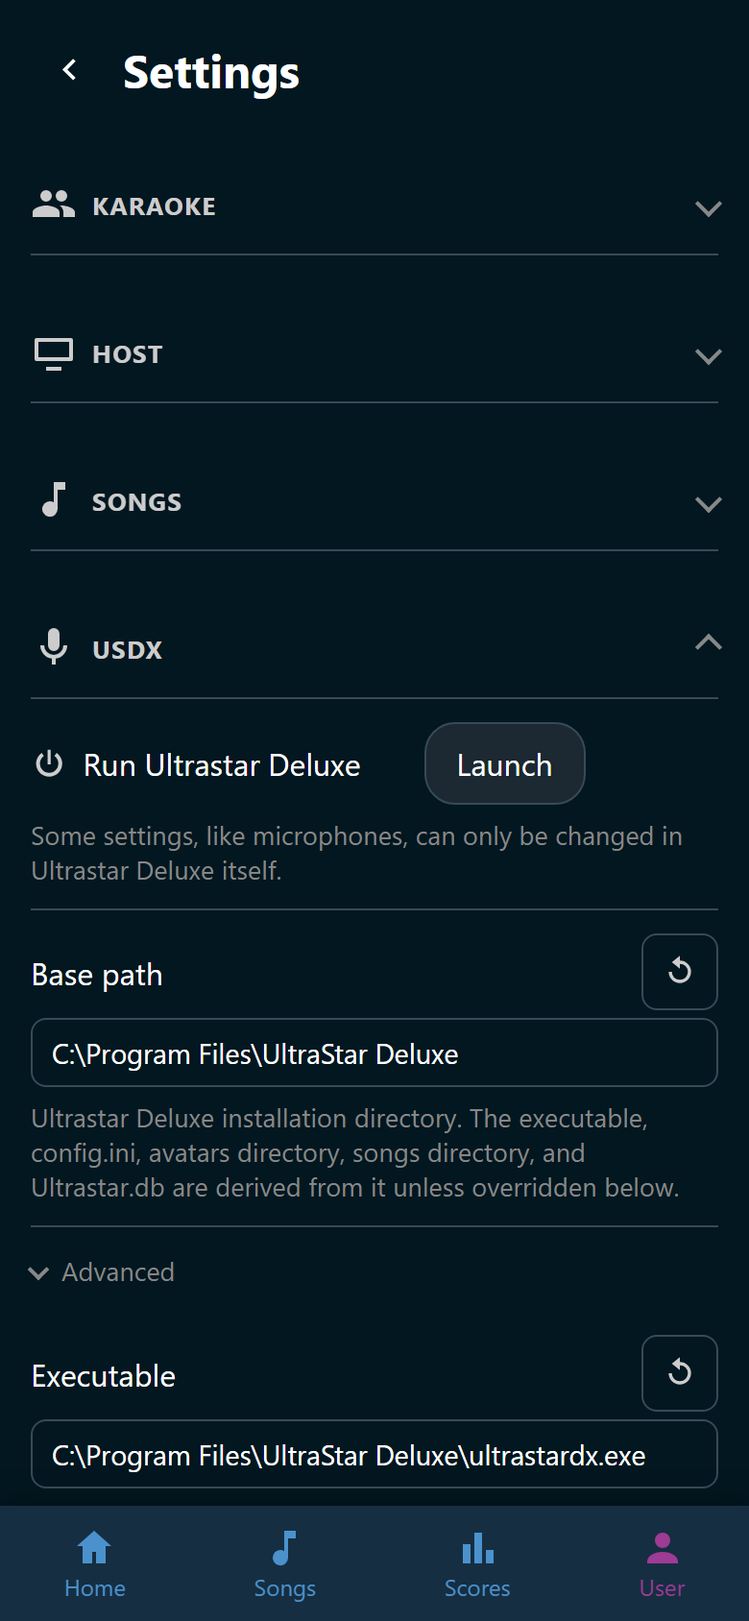
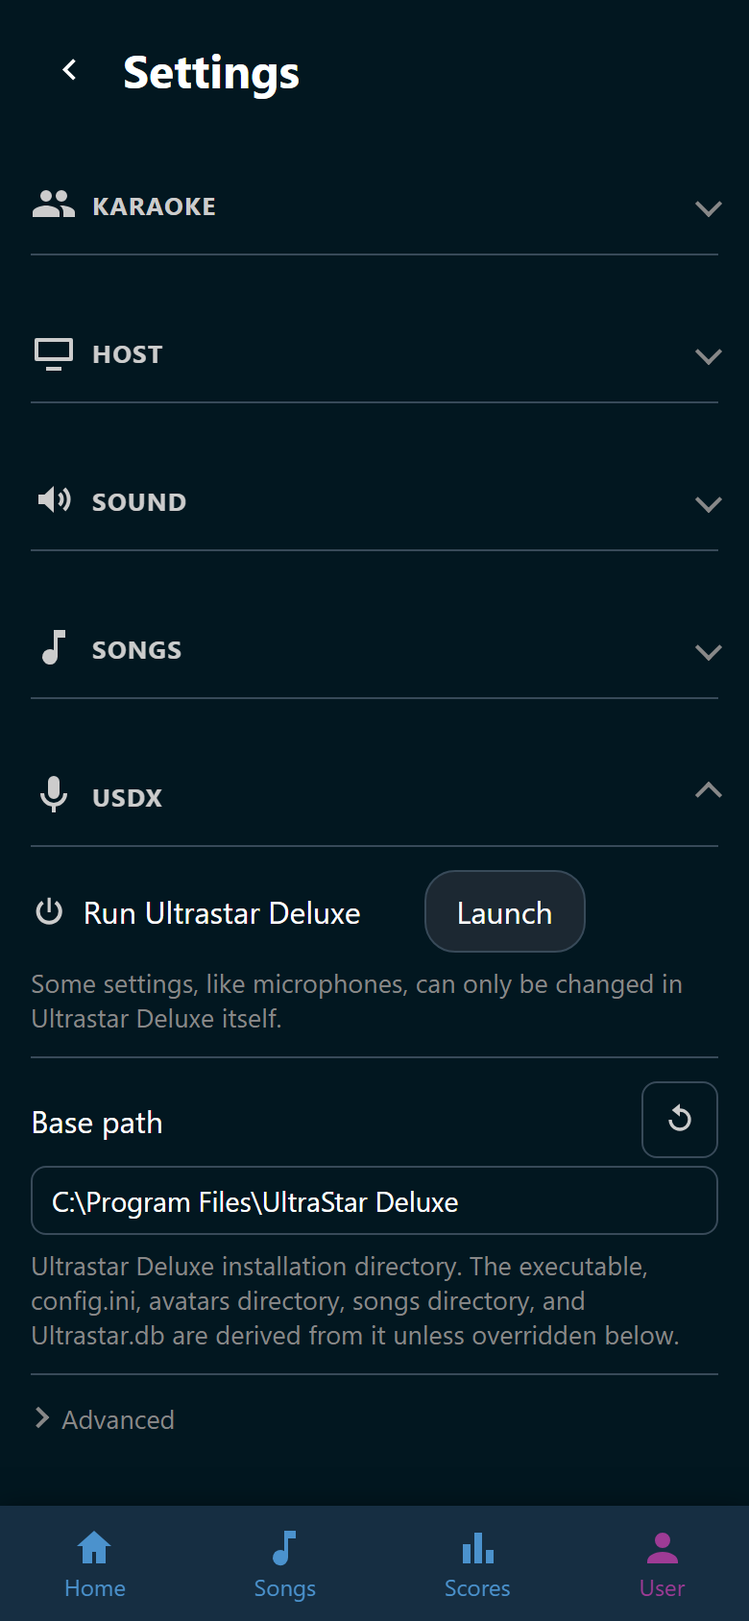
docs: tighten the help and install pages, correct the chip-row arithmetic and the codebase map's errors.ts entry, and retake the Filter and Settings screenshots with every chip look and the Sound group

diff --git a/frontend/src/pages/Songs.css b/frontend/src/pages/Songs.css
@@ -108,13 +108,15 @@
    several times the 328px a 360px phone has between its gutters.
 
    Measured at 360: `All` 46px, an unpressed glyph square 40px, the playlists
-   link 42px, gaps 8px; a pressed chip is icon + gap + label, 101px for
-   `Filter · 3` and 107px for `Favorites`. So four chips and the link fit on one
-   line whatever is pressed (251 + 8 + 42 = 301), and the fifth chip — `Recent`,
-   which is only there while a party is running — is what tips a pressed label
-   over: 299 + 8 + 42 = 349. Then the group wraps its own chips onto a second
-   line and the link stays anchored top right. Wrapping, never sideways scroll
-   (§1.11); `overflow-x` stays only as a backstop for a chip wider than the row.
+   link 40px (the square of its own rule below), gaps 8px; a pressed chip is
+   icon + gap + label, 101px for `Filter · 3` and 107px for `Favorites`. So four
+   chips and the link fit on one line whatever is pressed (`Favorites`, the
+   widest: 257 + 8 + 40 = 305), and the fifth chip — `Recent`, which is only
+   there while a party is running — is what tips a pressed label over, even the
+   narrower `Filter · 3`: 299 + 8 + 40 = 347. Then the group wraps its own
+   chips onto a second line and the link stays anchored top right. Wrapping,
+   never sideways scroll (§1.11); `overflow-x` stays only as a backstop for a
+   chip wider than the row.
    At 390 even the five-chip row fits on one line. */
 .songs-chips {
   display: flex;

diff --git a/docs/screenshots/capture.py b/docs/screenshots/capture.py
@@ -502,13 +502,24 @@ ROWS: dict[str, Row] = {
             # The chip itself, not the group around it: the row of chips carries the same
             # accessible name, and clicking a `<div role="group">` does nothing at all.
             ("click(q('button[aria-label=\"Filter\"]'))", 'q(".filter-panel")'),
+            # One tap puts Video on Yes, so the picture holds all three looks of the table
+            # in filter.md: plain chips on Any, Video and the Decade value filled in blue,
+            # and the two tags that hide their songs struck through on No. Video and not a
+            # tag: twelve of the eighteen 80s songs have one, so the list behind the panel
+            # stays full.
+            (
+                "click(byText('.filter-panel button.chip', 'Video'))",
+                "byText('.filter-panel button.chip', 'Video').classList.contains('chip-on')",
+            ),
             (
                 'setValue(q(\'.filter-panel select[aria-label="Decade"]\'), "1980s")',
                 'q(\'.filter-panel select[aria-label="Decade"]\').value === "1980s"',
             ),
         ),
         ready='qa(".filter-panel .filter-cloud").length === 2'
-        ' && q(\'.filter-panel select[aria-label="Decade"]\').value === "1980s"',
+        " && byText('.filter-panel button.chip', 'Video').classList.contains('chip-on')"
+        ' && q(\'.filter-panel select[aria-label="Decade"]\').value === "1980s"'
+        ' && q(".filter-panel .filter-chip-no")',
     ),
     "song": Row(
         identity="Leela",
@@ -806,14 +817,16 @@ ROWS: dict[str, Row] = {
             (
                 # Every group is open to begin with, which puts USDX several screens down. The
                 # others are folded away rather than scrolled past, so the group the picture is
-                # about starts at the top with its own header in the shot.
+                # about starts at the top with its own header in the shot. Its Advanced line
+                # stays folded, the way the page explains it: with the Sound group above, the
+                # Executable row behind it lands under the bottom nav.
                 '(() => { qa(".settings-group").forEach((group) => {'
                 ' group.open = text(group.querySelector(".settings-group-name")) === "USDX"; });'
-                ' q(".settings-group[open] .settings-advanced").open = true; return true; })()',
-                'q(".settings-group[open] .settings-advanced[open]")',
+                " return true; })()",
+                'q(".settings-group[open] .settings-advanced:not([open])")',
             ),
         ),
-        ready='q(".settings-group[open] .settings-advanced[open]")'
+        ready='q(".settings-group[open] .settings-advanced:not([open])")'
         ' && byText(".settings-group-name", "USDX")',
         # An ordinary Windows installation for the length of the shot. The stand-in
         # launcher lives in the scratch directory, whose path names the person who ran the

diff --git a/CLAUDE.md b/CLAUDE.md
@@ -112,7 +112,7 @@ live in `tests/fixtures/`.
 | `api/` | **generated** by `@hey-api/openapi-ts` (fetch client + TanStack Query options). Never edit; regenerate and commit |
 | `auth.ts` | `useAuth()` → `{ user, role, capabilities, isHost, loaded, can(capability) }` |
 | `index.css` | design tokens — `--bottom-nav-height` among them, the one term the fixed nav is that tall by, `#root` reserves at the foot of every page and `EditorActions` sticks at — and the shared classes (`.button*`, `.text-input[-quiet]`, `.icon-button*`, `.error-notice`, `.section-note`, `.delete-row` (the centered danger button that ends a list or a form), `.chip[-on]` + `.chip-name` (the 40px box of the Songs chip row and the Filter panel's chips, its hover fill for pointers alone and its ring through `:has(:focus-visible)` for the facet chip's invisible select), `.range-input` (the one slider in the app: the player's music volume and the four **Sound** volumes, painted by `accent-color` alone so there is no per-browser pseudo-element stack), `.visually-hidden`, global focus ring) |
-| `stats.ts` (`scoreSummary` is what `ScoreSummary` prints — distinct sings, distinct songs, the peaks with the name of whoever holds them, a tie going to whoever got there first — and `CHART_MIN_SCORES` the threshold every summary's chart waits for; `scoreOffset` and `scoreMarkers` are the host result screen's marker strip — which of the three all-time marks survive a minimum gap the caller measures in em against the strip, the average yielding first and all three collapsing into one average mark), `chartLayout.ts` (the geometry behind the SVG charts: the shared 0–10k ticks, the beeswarm stagger that keeps near-ties apart, wall-clock ticks, deterministic dot jitter), `karaokeSlots.ts`, `playerSlots.ts` (the phone's memory of who stood on which slot: `readAssignment` / `writeAssignment` in `localStorage`, `rememberedAssignment` dropping unknown colors, deleted and hidden players, and `slotBody` — what every modal that opens the room's selection seeds it with; the player selection writes it on Play, the host spin only reads it), `settings.ts`, `duration.ts`, `errors.ts` (with `BUNDLED_USDX_NOTE`, the one sentence every surface says for the **bundled** mode, and `explainUsdxProblem`, which also words the bundled-only *the bundled Ultrastar Deluxe is missing*), `manage.ts`, `devices.ts` (the player selector's vocabulary: the `slot:<color>` roles and the button actions, `START_WITHOUT_SELECTION` and `RANDOM_SCOPES` — the backend's tuple with its labels, every song first — `isNewer` / `needsUpdate` over the bundled manifest, the meta, status, firmware, update and signal lines, `otaAvailable` (an update over Wi-Fi wants a build carrying an `ota_file`, a device that has reported what it runs — one that never has takes the cable — and a version that *differs* — `devices/service.py`'s own rule, not `isNewer`'s, so a device ahead of the bundle can be put back on it) with `updateRefusal` for its three 409s, and `mappingRefusal` turning a 422 slug into the sentence naming the reader it does not name — `slot_taken_elsewhere` among them, the one refusal whose `detail` is an object rather than a slug, read here because `errorDetail` is string-only by contract and said with the color and the other device's name), `deviceSerial.ts` (the browser half of the serial console: the framer that turns chunks into lines and keeps the tail, `parseLine` (JSON with a known `type`, anything else — boot-loader noise, a message this frontend has no screen for — being `null`), `buildCommand` (`JSON.stringify`, so a password may hold a quote), the sentence one `status` or `error` line reads as, and `HelloHandshake`, whose clock is passed in so its ten seconds are tested without a timer), `deviceSetup.ts` (what the wizard works out on its own: `discoveredOrder` and `pressedOrder` over two reports, the roles and actions they propose — one reader is *Everybody in turn*, several take the host's slots in the order the cards landed — the localhost address to open the flash step at, and `serverAddress`, which is the join URL's origin unless that is localhost, with `serverAddressProblem` refusing a typed one the device cannot reach before Send mints a token), `music.ts` (the player's branching, tested without rendering it: `playerMode` (a sing always outranks the music), `musicPosition` (advanced only while the music plays *and* a screen is listening, clamped at both ends), `progressPercent`, `effectiveVolume` (master × trim, a plain product — any gamma makes one of the two printed numbers a lie), `seekIfDrifted` and `MUSIC_SCOPES`), `songSources.ts`, `links.ts`, `backLink.ts`, `dice.ts`, `avatars.ts` (a player's picture: the cache-busted URL, and `asPlayer` for the people who are not player rows — a comment's author, a playlist's members), `tags.ts` (a tag's glyph and colour class, the row marks; the eight built-ins — their fixed glyph/name/`kind`, `KIND_OPTIONS` mirroring the backend, and `builtInTags` normalising the `built_ins` rows so no option is ever null; one extractor per facet over `SongRead` plus `decadeLabel` and `facetValues`; and the criteria the song list filters on — `SongCriteria` (marks, `booleans`, `values`, tags), the reader's `CriteriaOverrides` and `effectiveCriteria`, which drops a facet whose `show_in_filter` is off), `achievements.ts` (a badge's icon URL at the row's own `icon_version`, glyph and colour class — the tags' four, not a second vocabulary; `isMasked` and the stand-in name and sentence of a masked row; `MANAGE_CATALOGUE`, the `?manage=true` the two management pages — and nothing else — ask the catalogue with, its own cache entry beside the masked one everybody reads; the progress fraction and its `"7 / 10"`; and the editor's vocabulary declared once — metrics, comparators, scopes, the selector's fields, operators and kinds, `conditionTarget` mirroring the backend's progress rule, `songMode` reading the three song modes off `songs`/`match`, `conditionProblem` making the models' refusals sayable before Save, and `conditionSentence` turning one condition into the plain sentence its editor block is headed by; and `importSummary`, which turns an import's two lists of ids into the sentence the admin page answers with) | plain helpers, each with its own test |
+| `stats.ts` (`scoreSummary` is what `ScoreSummary` prints — distinct sings, distinct songs, the peaks with the name of whoever holds them, a tie going to whoever got there first — and `CHART_MIN_SCORES` the threshold every summary's chart waits for; `scoreOffset` and `scoreMarkers` are the host result screen's marker strip — which of the three all-time marks survive a minimum gap the caller measures in em against the strip, the average yielding first and all three collapsing into one average mark), `chartLayout.ts` (the geometry behind the SVG charts: the shared 0–10k ticks, the beeswarm stagger that keeps near-ties apart, wall-clock ticks, deterministic dot jitter), `karaokeSlots.ts`, `playerSlots.ts` (the phone's memory of who stood on which slot: `readAssignment` / `writeAssignment` in `localStorage`, `rememberedAssignment` dropping unknown colors, deleted and hidden players, and `slotBody` — what every modal that opens the room's selection seeds it with; the player selection writes it on Play, the host spin only reads it), `settings.ts`, `duration.ts`, `errors.ts` (with `BUNDLED_USDX_NOTE`, the one sentence every surface says for the **bundled** mode, and `explainUsdxProblem`, which also words the three bundled-only problems — *the bundled Ultrastar Deluxe is missing*, a folder that is not plain ASCII, a `songs` folder that cannot be written to), `manage.ts`, `devices.ts` (the player selector's vocabulary: the `slot:<color>` roles and the button actions, `START_WITHOUT_SELECTION` and `RANDOM_SCOPES` — the backend's tuple with its labels, every song first — `isNewer` / `needsUpdate` over the bundled manifest, the meta, status, firmware, update and signal lines, `otaAvailable` (an update over Wi-Fi wants a build carrying an `ota_file`, a device that has reported what it runs — one that never has takes the cable — and a version that *differs* — `devices/service.py`'s own rule, not `isNewer`'s, so a device ahead of the bundle can be put back on it) with `updateRefusal` for its three 409s, and `mappingRefusal` turning a 422 slug into the sentence naming the reader it does not name — `slot_taken_elsewhere` among them, the one refusal whose `detail` is an object rather than a slug, read here because `errorDetail` is string-only by contract and said with the color and the other device's name), `deviceSerial.ts` (the browser half of the serial console: the framer that turns chunks into lines and keeps the tail, `parseLine` (JSON with a known `type`, anything else — boot-loader noise, a message this frontend has no screen for — being `null`), `buildCommand` (`JSON.stringify`, so a password may hold a quote), the sentence one `status` or `error` line reads as, and `HelloHandshake`, whose clock is passed in so its ten seconds are tested without a timer), `deviceSetup.ts` (what the wizard works out on its own: `discoveredOrder` and `pressedOrder` over two reports, the roles and actions they propose — one reader is *Everybody in turn*, several take the host's slots in the order the cards landed — the localhost address to open the flash step at, and `serverAddress`, which is the join URL's origin unless that is localhost, with `serverAddressProblem` refusing a typed one the device cannot reach before Send mints a token), `music.ts` (the player's branching, tested without rendering it: `playerMode` (a sing always outranks the music), `musicPosition` (advanced only while the music plays *and* a screen is listening, clamped at both ends), `progressPercent`, `effectiveVolume` (master × trim, a plain product — any gamma makes one of the two printed numbers a lie), `seekIfDrifted` and `MUSIC_SCOPES`), `songSources.ts`, `links.ts`, `backLink.ts`, `dice.ts`, `avatars.ts` (a player's picture: the cache-busted URL, and `asPlayer` for the people who are not player rows — a comment's author, a playlist's members), `tags.ts` (a tag's glyph and colour class, the row marks; the eight built-ins — their fixed glyph/name/`kind`, `KIND_OPTIONS` mirroring the backend, and `builtInTags` normalising the `built_ins` rows so no option is ever null; one extractor per facet over `SongRead` plus `decadeLabel` and `facetValues`; and the criteria the song list filters on — `SongCriteria` (marks, `booleans`, `values`, tags), the reader's `CriteriaOverrides` and `effectiveCriteria`, which drops a facet whose `show_in_filter` is off), `achievements.ts` (a badge's icon URL at the row's own `icon_version`, glyph and colour class — the tags' four, not a second vocabulary; `isMasked` and the stand-in name and sentence of a masked row; `MANAGE_CATALOGUE`, the `?manage=true` the two management pages — and nothing else — ask the catalogue with, its own cache entry beside the masked one everybody reads; the progress fraction and its `"7 / 10"`; and the editor's vocabulary declared once — metrics, comparators, scopes, the selector's fields, operators and kinds, `conditionTarget` mirroring the backend's progress rule, `songMode` reading the three song modes off `songs`/`match`, `conditionProblem` making the models' refusals sayable before Save, and `conditionSentence` turning one condition into the plain sentence its editor block is headed by; and `importSummary`, which turns an import's two lists of ids into the sentence the admin page answers with) | plain helpers, each with its own test |
 | `test/` | `auth.ts` (`meResponse`, `userRead`), `tags.ts` (`tagRead`, `builtInTagRead`, `builtInTagReads` — all eight built-ins at their defaults), `achievements.ts` (`condition`, `achievementRead`, `maskedAchievementRead`, `achievementSettings`, `builtInAchievementReads` — the thirty-five as `builtin.py` seeds them, `playerAchievementRead`), `fakeSocket.ts`, `icons.ts` (`iconNames`), `setup.ts` |
 
 ### Docs — `docs/`

diff --git a/docs/dev/documentation.md b/docs/dev/documentation.md
@@ -517,7 +517,7 @@ about, and the **Must be visible** column names that part alone.
 | `home` | `party/index.md` | `/` | Signed in as Leela, four wishes | 390x844 | The Wingman tile, the wishlist, the Random song entry |
 | `home-playing` | `party/sing.md` | `/` | **launcher**: a song playing | 390x844 | The stage showing cover, title, artist, song controls |
 | `songs-list` | `songs/index.md` | `/songs` | Seeded library, two favorites, two sung | 390x844 | Search box, chip row, rows with marks |
-| `songs-filter` | `songs/filter.md` | `/songs` | Filter panel open, Decade set to 1980s | 390x844 | The hint line, both chip clouds, and the Decade chip showing 1980s |
+| `songs-filter` | `songs/filter.md` | `/songs` | Filter panel open, Video on Yes, Decade set to 1980s | 390x844 | The hint line, both chip clouds, Video on Yes, the Decade chip showing 1980s, and a tag struck through on No |
 | `song` | `songs/song.md` | `/songs` | Song modal open on "I Got You Babe" | 390x844 | Cover hero, the wish and favorite toggles, and the summary strip |
 | `song-comments` | `songs/song.md` | `/songs` | Song modal, comments sub-view, three comments | 390x844 | The comment list and the composer |
 | `song-edit` | `songs/fix-or-delete.md` | `/songs` | Song modal, details editor open | 390x844 | The six labeled inputs, the save row, and **Delete song** under it |
@@ -545,7 +545,7 @@ about, and the **Must be visible** column names that part alone.
 | `people-admin` | `people/players.md` | `/user/accounts` | Three accounts, seven guests, one of them hidden | 390x844 | Both groups, the role controls, a hidden row |
 | `permissions` | `people/roles.md` | `/user/permissions` | Defaults | 390x844 | The three columns Guest, User, and Trusted, and the line saying admins are not in the table |
 | `login` | `people/index.md` | `/user` | Signed out | 390x844 | Name, Password, **Log in**, and the **New account** switch |
-| `settings` | `settings/index.md` | `/settings` | USDX group open, its Advanced block open | 390x844 | The group header and its icon, the Base path field, the Advanced block |
+| `settings` | `settings/index.md` | `/settings` | USDX group open, its Advanced line folded | 390x844 | The group header and its icon, the Base path field, the Advanced line |
 | `host-screen` | `host-screen/index.md` | `/host` | A party going, four wishes, five singers scored | 1280x720 | QR card, join address, standing, most wished |
 | `host-playing` | `host-screen/index.md` | `/host` | **launcher**: a song playing | 1280x720 | The stage with the cover and the singers |
 | `host-results` | `scores/index.md` | `/host` | **launcher**: the song just finished and its scores were written | 1280x720 | The results of the song that finished, the score summary beside its cover |

diff --git a/docs/user/integrate/files.md b/docs/user/integrate/files.md
@@ -12,12 +12,13 @@ C:\Users\<you>\AppData\Local\Ultrastar Wingman
 ```
 
 `WINGMAN_DATA_DIR` moves it. Wingman names the folder it settled on in a
-startup line, `Data folder: ...`, so the log is the reliable answer.
+startup line, `Data folder: ...`, so the console window is the reliable
+answer.
 
 | Name | What it holds |
 |---|---|
 | `wingman.db` | Everything Wingman remembers |
-| `avatars/` | One picture per player, added when somebody uploads one |
+| `avatars/` | One picture per player, added when somebody uploads one or a single sign-on login brings one |
 | `achievement_icons/` | One uploaded picture per achievement |
 | `bin/` | The yt-dlp and ffmpeg builds Wingman fetched for downloads |
 
@@ -102,7 +103,7 @@ Everything else it is configured with is a setting inside the app.
 | `WINGMAN_OPEN_BROWSER` | Open the host screen in a browser at startup | `true` |
 | `WINGMAN_FRONTEND_DIR` | The built web app to serve | The copy that comes with Wingman, or `frontend/dist` when you run from source |
 | `WINGMAN_USDX_DIR` | An Ultrastar Deluxe folder Wingman treats as its own. See [Install and run](../start/install.md#bring-your-own-ultrastar-deluxe-along) | A `usdx` folder next to the exe that holds `ultrastardx.exe`, otherwise none |
-| `WINGMAN_LOG_LEVEL` | How much the console says: `debug`, `info`, `warning`, or `error`. `debug` adds the logger behind every line and one line per HTTP request, the query string left out. `warning` and `error` also hide the `Host UI` line | `info` |
+| `WINGMAN_LOG_LEVEL` | How much the console says: `debug`, `info`, `warning`, or `error`. `debug` adds the logger behind every line and one line per HTTP request, the query string left out. `warning` and `error` also hide the startup lines, `Data folder` and `Host UI` among them | `info` |
 
 A file called `.env` in the folder Wingman is started from does the same, one
 name and value per line:

diff --git a/docs/user/help/index.md b/docs/user/help/index.md
@@ -16,12 +16,10 @@ When Wingman cannot start, its console window stays open with the reason in
 it. Press ++enter++ to close it.
 
 - **A complaint about the port**, *Wingman is already running, or port 8080 is
-  taken*, usually means you started Wingman twice. The second one stops before
-  it does anything, and the first one runs on. Look for its console window on
-  the taskbar and use that one. If no Wingman is running, another program has
-  the port. Give Wingman a different one with `WINGMAN_PORT`. This holds even
-  when you start Wingman twice within a few seconds: the first one takes the
-  port before it does anything else.
+  taken*, usually means you started Wingman twice. The second stops before it
+  does anything, even while the first is still starting. Use the first one's
+  console window on the taskbar. If no Wingman is running, another program has
+  the port. Give Wingman a different one with `WINGMAN_PORT`.
 - **A complaint about the database**, such as *Can't locate revision*, means an
   older Wingman met a database a newer one has updated. Install the newer
   version again, or put back the copy of the data folder you made before.
@@ -95,10 +93,8 @@ It works once. Restart Wingman and use the new line from the console window.
 Browsers that already hold host rights keep them. The link is only needed to
 make a new browser the host. See [The host screen](../host-screen/index.md).
 
-Starting Wingman a second time leaves the link alone. The second one stops
-before it opens a browser. Two starts within a few seconds of each other can
-both open one. Use the link from the window that says *Wingman is running*. See
-[Wingman does not start](#wingman-does-not-start).
+A second start of Wingman leaves the link alone, because it stops before it
+opens a browser. See [Wingman does not start](#wingman-does-not-start).
 
 ## The USDB login fails
 

diff --git a/docs/user/start/install.md b/docs/user/start/install.md
@@ -91,8 +91,7 @@ your players, parties, and scores.
 
 ## Change the port, the address, or the folder
 
-Wingman reads these environment variables when it starts. Set one when the
-default does not fit, and leave the others alone.
+Wingman reads these environment variables at startup. Set only those you need.
 
 | Variable | What it does | Default |
 |---|---|---|
@@ -102,6 +101,7 @@ default does not fit, and leave the others alone.
 | `WINGMAN_OPEN_BROWSER` | Open the host screen at startup | `true` |
 | `WINGMAN_FRONTEND_DIR` | The web app Wingman serves. Only needed if you built it yourself | The copy that comes with Wingman, or `frontend/dist` when you run from source |
 | `WINGMAN_USDX_DIR` | An Ultrastar Deluxe folder Wingman treats as its own. See below | A `usdx` folder next to the exe that holds `ultrastardx.exe`, otherwise none |
+| `WINGMAN_LOG_LEVEL` | How much the console says: `debug`, `info`, `warning`, or `error`. `warning` and `error` also hide the three lines under [When Wingman starts](#when-wingman-starts) | `info` |
 
 Wingman also reads a file called `.env` in the folder you start it from, so a
 double-click can carry these too. The Start menu entry starts it in the program

diff --git a/docs/user/songs/filter.md b/docs/user/songs/filter.md
@@ -3,9 +3,9 @@
 **All**, **Favorites**, and **Sung** are shortcuts. The **Filter** panel is the
 long way round, and it is where the tags live.
 
-![The Filter panel: a hint line, then a cloud of chips for the marks and the facets with Decade showing 1980s, then a cloud of tag chips](../assets/screenshots/songs/songs-filter.png){ width="320" loading=lazy }
+![The Filter panel: a hint line, the marks and facets with Video on Yes and Decade on 1980s, then the tags, two of them struck through on No](../assets/screenshots/songs/songs-filter.png){ width="320" loading=lazy }
 /// caption
-The **Decade** chip shows 1980s, so only the 80s songs are left behind the panel.
+**Video** is on **Yes** and **Decade** shows 1980s, so only the 80s songs with a video are left behind the panel.
 ///
 
 ## Set a filter

diff --git a/docs/user/settings/index.md b/docs/user/settings/index.md
@@ -29,9 +29,9 @@ Click the line to fold them out.
 
 Each setting shows its name, its box, and one line saying what it does.
 
-![The Settings page with the Karaoke, Host, Songs, and USDX group headings, the Base path field, and the Advanced line under it](../assets/screenshots/settings/settings.png){ width="320" loading=lazy }
+![The Settings page with the Karaoke, Host, Sound, Songs, and USDX group headings, the Base path field, and the Advanced line under it](../assets/screenshots/settings/settings.png){ width="320" loading=lazy }
 /// caption
-The **USDX** group is open, and the other three are folded away.
+The **USDX** group is open, and every other group is folded away.
 ///
 
 ## Change a setting

diff --git a/docs/dev/testing.md b/docs/dev/testing.md
@@ -77,6 +77,8 @@ copy, and the whole suite runs in about two and a half minutes:
 - A bug fix ships with the regression test that would have caught it.
 - Tests are deterministic: no sleeps for synchronization, no dependence on
   wall-clock time or test order.
-- Fast: the backend suite should run in seconds. A slow suite stops being run.
+- Fast: a test pays for what it checks and nothing else. Setup every test
+  shares, like a migration walk, is done once (see
+  [the test database](#the-test-database)). A slow suite stops being run.
 - CI (when set up) runs ruff, mypy, pytest, eslint, tsc, vitest on every push;
   `main` must be green.

diff --git a/docs/user/people/players.md b/docs/user/people/players.md
@@ -110,4 +110,6 @@ first.
 !!! note
     There is no password reset. Delete the account and register the same name
     again. The player row survives the deletion and is picked up by the new
-    account, scores and all.
+    account, scores and all. A single sign-on account has no password in
+    Wingman: its password is the provider's. Deleting one locks nobody out. The
+    next sign-in asks for a name again.
